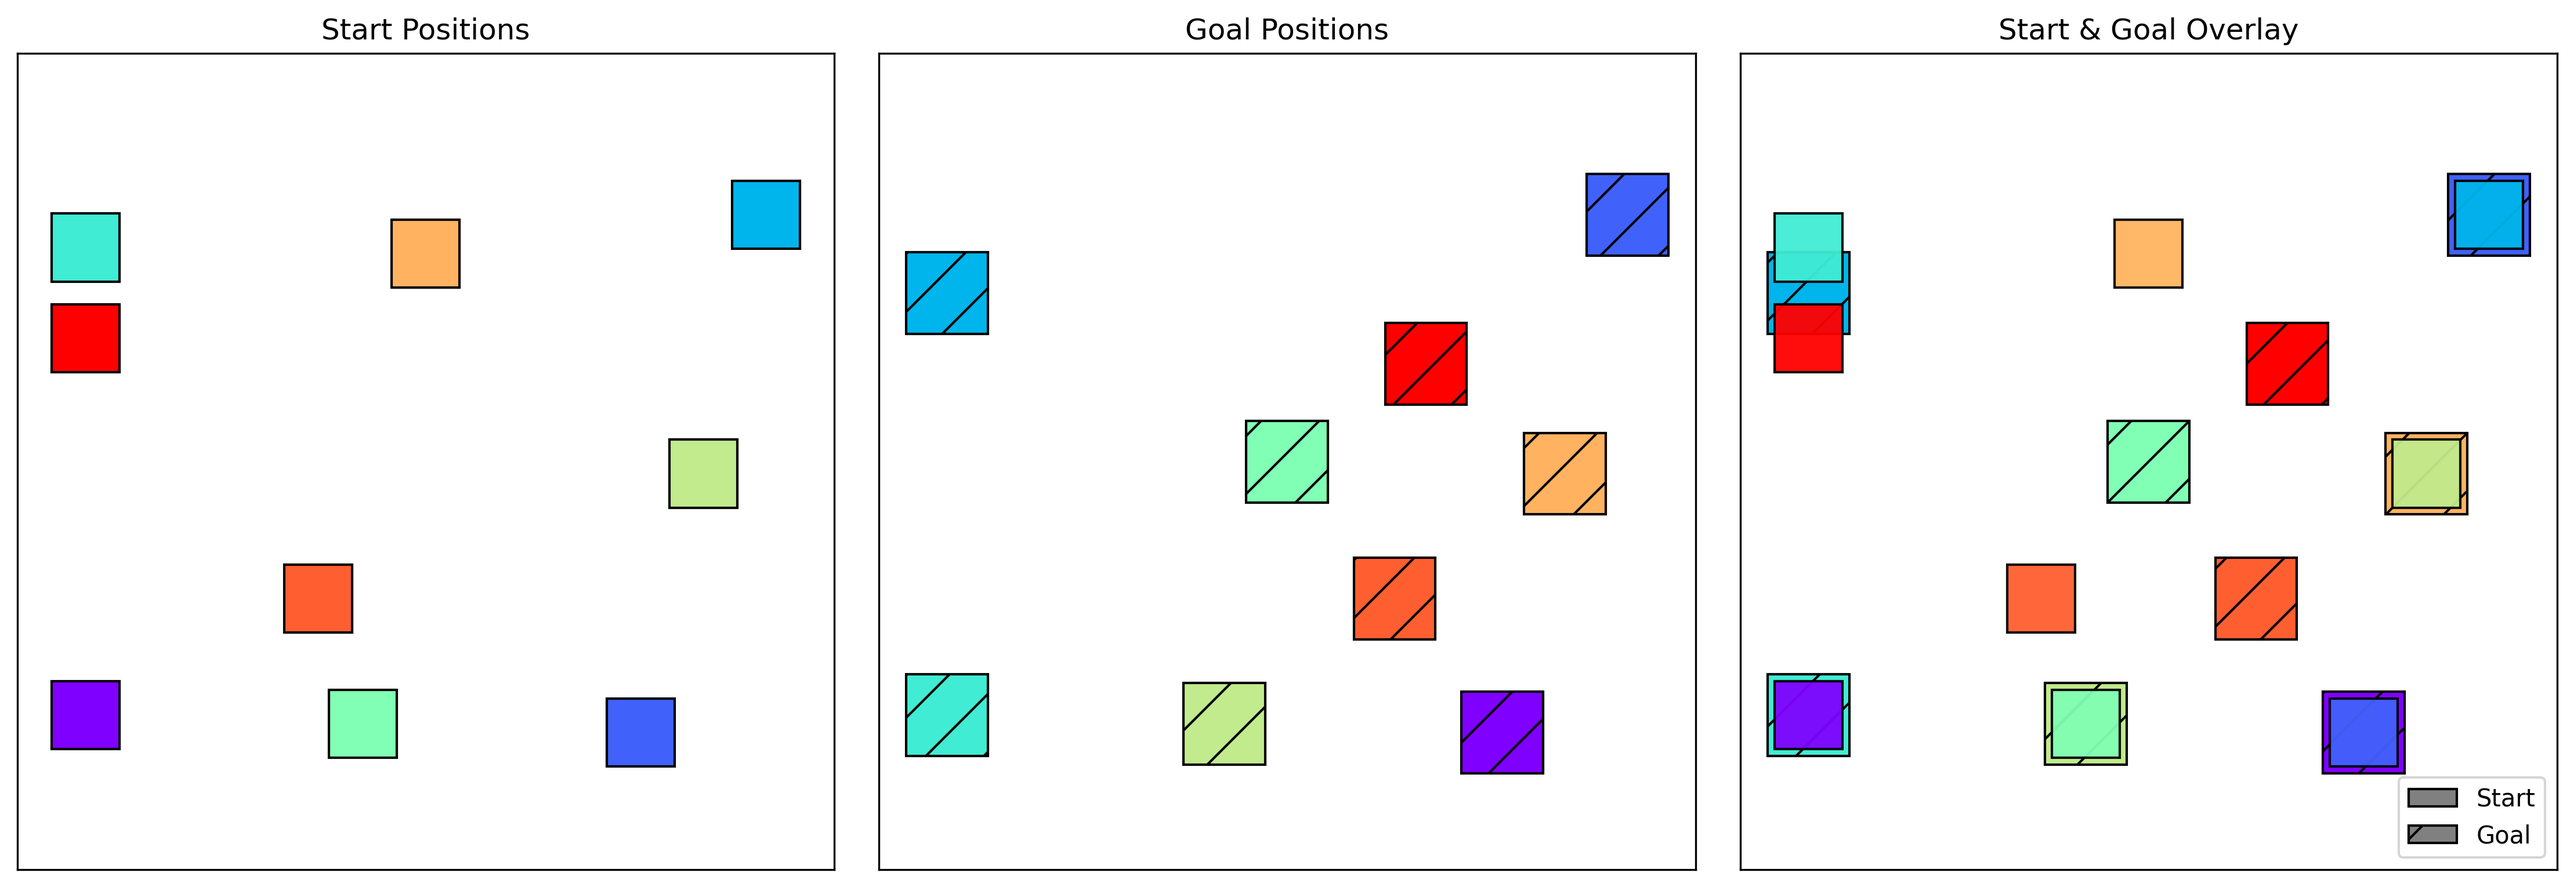
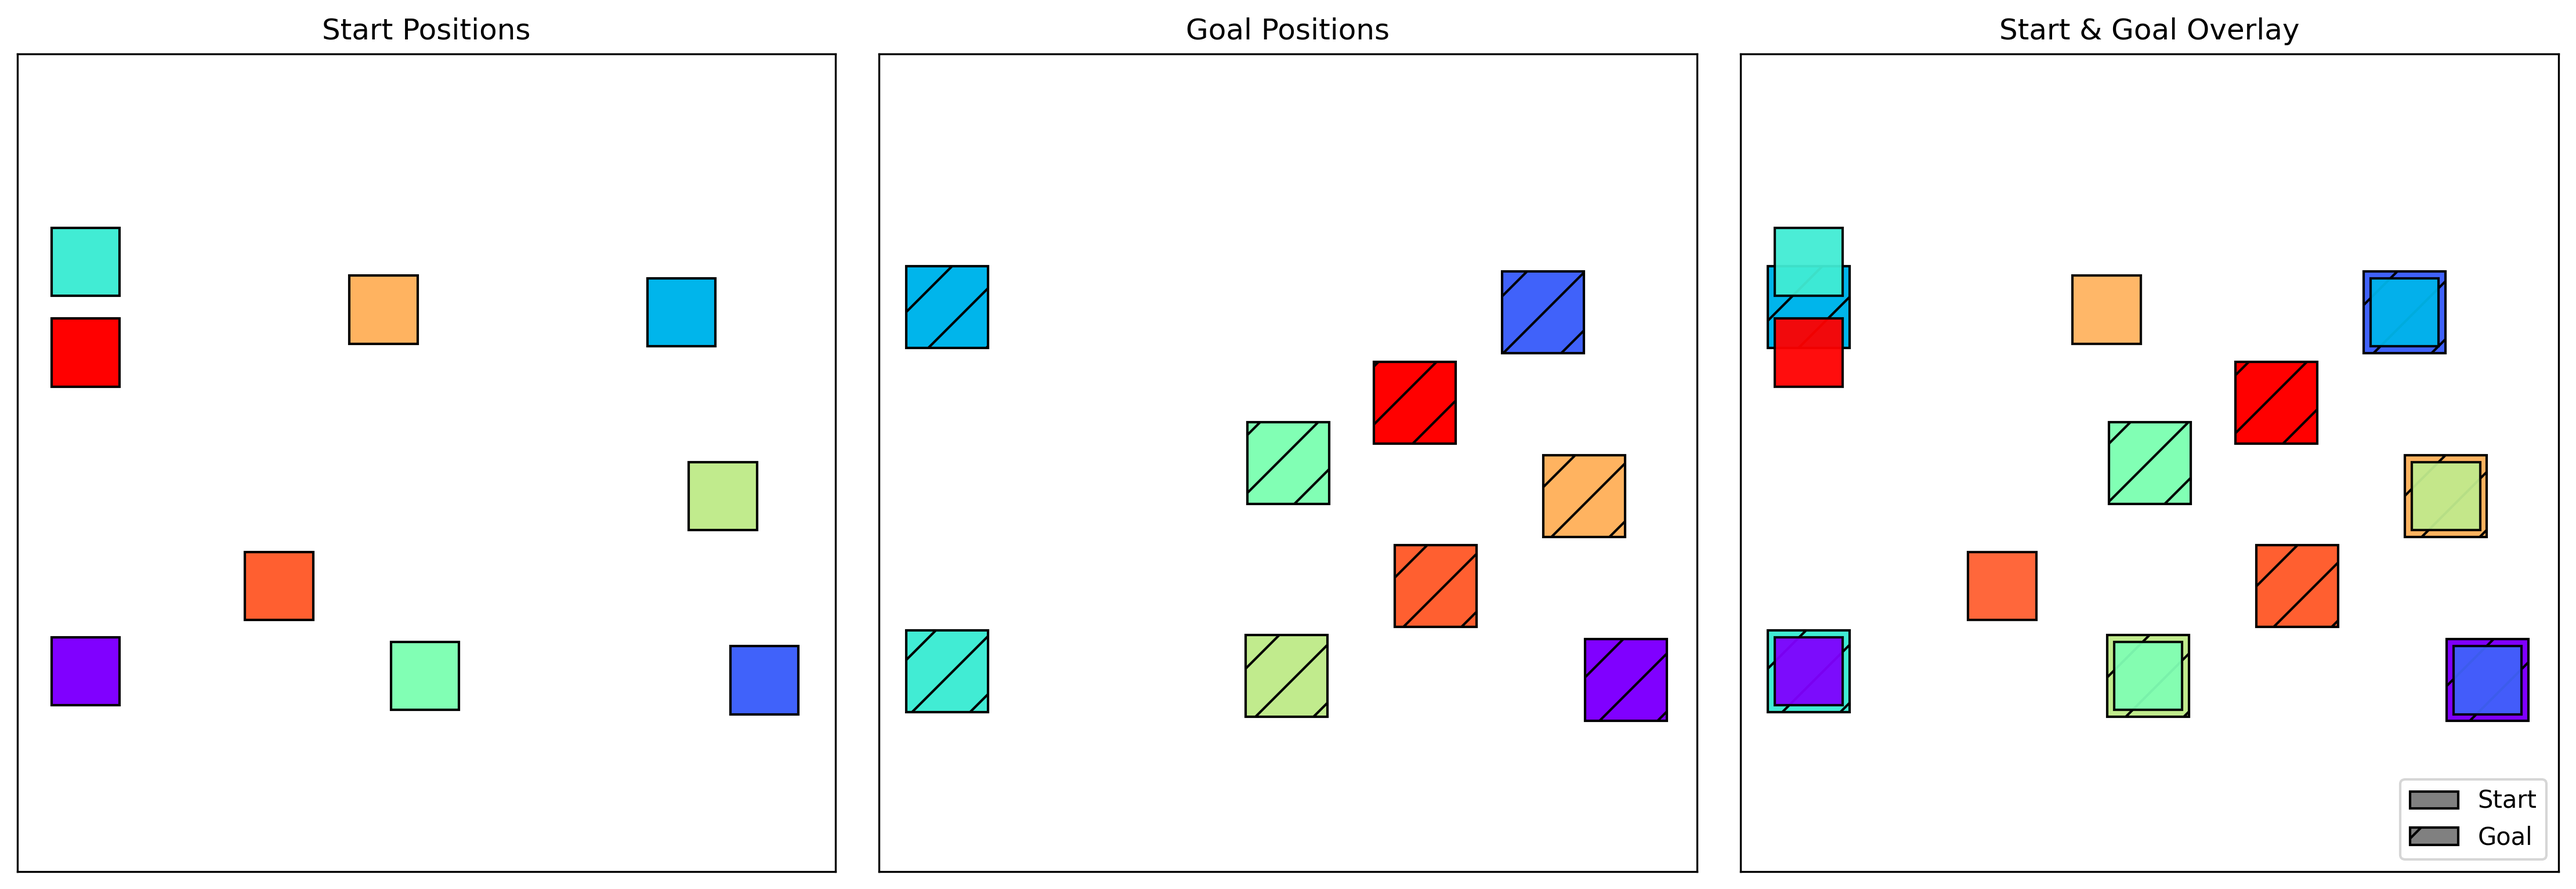
to debug ppt

diff --git a/task.py b/task.py
@@ -9,6 +9,12 @@ from dependency_graph import DependencyGraph
 from dataclasses import dataclass
 from enum import Enum
 import json
+import os
+import numpy as np
+from pptx import Presentation
+from pptx.util import Inches, Pt
+from pptx.enum.shapes import MSO_SHAPE
+from pptx.dml.color import RGBColor
 
 class TaskState(Enum):
     IN_PROGRESS = 1
@@ -480,6 +486,93 @@ class Task:
         plt.savefig(save_path, dpi=300, bbox_inches='tight')
         print(f"Saved visualization to: {save_path}")
         plt.close(fig)
+    
+
+
+    def draw_triptych_to_ppt(self, ppt_path="triptych_slide.pptx", slide_title="Start, Goal, and Overlay"):
+        """
+        Draws a triptych (start, goal, overlay) of the task into a PowerPoint slide.
+        Uses a fixed visual table size and scales all positions and object sizes proportionally.
+        """
+        if os.path.exists(ppt_path):
+            print(f"Opening existing presentation: {ppt_path}")
+            prs = Presentation(ppt_path)
+        else:
+            print(f"Creating new presentation: {ppt_path}")
+            prs = Presentation()
+
+        slide = prs.slides.add_slide(prs.slide_layouts[5])
+        width, height = prs.slide_width, prs.slide_height
+
+        # Title
+        title_box = slide.shapes.add_textbox(Inches(0.5), Inches(0.2), width - Inches(1), Inches(0.5))
+        tf = title_box.text_frame
+        tf.text = slide_title
+        tf.paragraphs[0].font.size = Pt(24)
+
+        # Layout setup
+        section_width = width / 3 - Inches(0.5)
+        section_margin = Inches(0.25)
+        top_margin = Inches(1.0)
+
+        # VISUAL SIZE SETTINGS
+        visual_table_size_inch = 3.0  # how large to draw the table
+        scale = visual_table_size_inch / self.map_width  # scale factor for positions
+        visual_object_size = self.object_size * scale  # scaled size of each square
+        rect_size = Inches(visual_object_size)
+        visual_table_size_inch = Inches(visual_table_size_inch)
+        print(f"Visual object size: {visual_object_size} inches")
+        print(f"rect_size: {rect_size} inches")
+        print(f"scale: {scale}")
+
+        def draw_scene(scene_type, x_offset):
+            # Draw the table (centered at 0,0)
+            table_left = x_offset + section_width / 2 - visual_table_size_inch / 2
+            table_top = top_margin + visual_table_size_inch / 2
+            table_rect = slide.shapes.add_shape(
+                MSO_SHAPE.RECTANGLE,
+                table_left, table_top,
+                visual_table_size_inch, visual_table_size_inch
+            )
+            table_fill = table_rect.fill
+            table_fill.solid()
+            table_fill.fore_color.rgb = RGBColor(230, 230, 230)
+            table_rect.line.color.rgb = RGBColor(180, 180, 180)
+
+            for i in range(self.num_objects):
+                color = tuple(int(c * 255) for c in self.colors[i][:3])
+                start = self.get_start(i)
+                goal = self.get_goal(i)
+
+                def draw_box(xy, label):
+                    x, y = xy[0], xy[1]
+                    left = x_offset + section_width / 2 + scale * x - rect_size / 2
+                    top = table_top + scale * y - rect_size / 2
+                    shape = slide.shapes.add_shape(MSO_SHAPE.RECTANGLE, left, top, rect_size, rect_size)
+                    fill = shape.fill
+                    fill.solid()
+                    fill.fore_color.rgb = RGBColor(*color)
+                    shape.line.color.rgb = RGBColor(0, 0, 0)
+                    shape.line.width = Pt(1)
+
+                    label_box = slide.shapes.add_textbox(left, top, rect_size, rect_size)
+                    label_box.text = str(label)
+                    p = label_box.text_frame.paragraphs[0]
+                    p.font.size = Pt(10)
+                    p.alignment = 1  # center
+
+                if scene_type in ['start', 'overlay']:
+                    draw_box(start, i)
+                if scene_type in ['goal', 'overlay']:
+                    draw_box(goal, i)
+
+        draw_scene('start', section_margin)
+        draw_scene('goal', section_margin + section_width + Inches(0.5))
+        draw_scene('overlay', section_margin + 2 * (section_width + Inches(0.5)))
+
+        prs.save(ppt_path)
+        print(f"Saved triptych slide to: {ppt_path}")
+
     
     def get_starts(self):
         return self.starts
@@ -999,3 +1092,4 @@ if __name__ == '__main__':
     task.draw_dependency_graph("results/dependency_graph.png")
     task.draw_start_goal_pair("results/start_goal_pair.png")
     task.write_to_json("data/task_running_example.json")
+    task.draw_triptych_to_ppt("results/triptych_slide.pptx", slide_title="Running Example")
